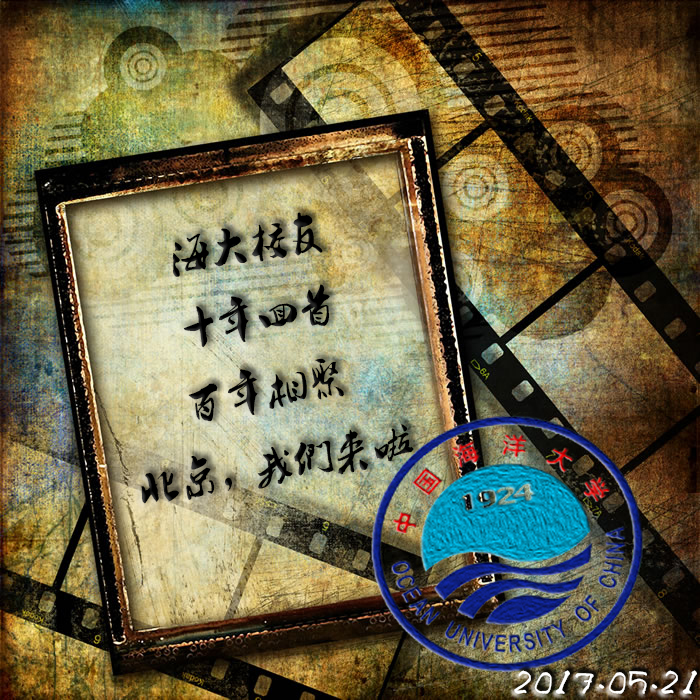
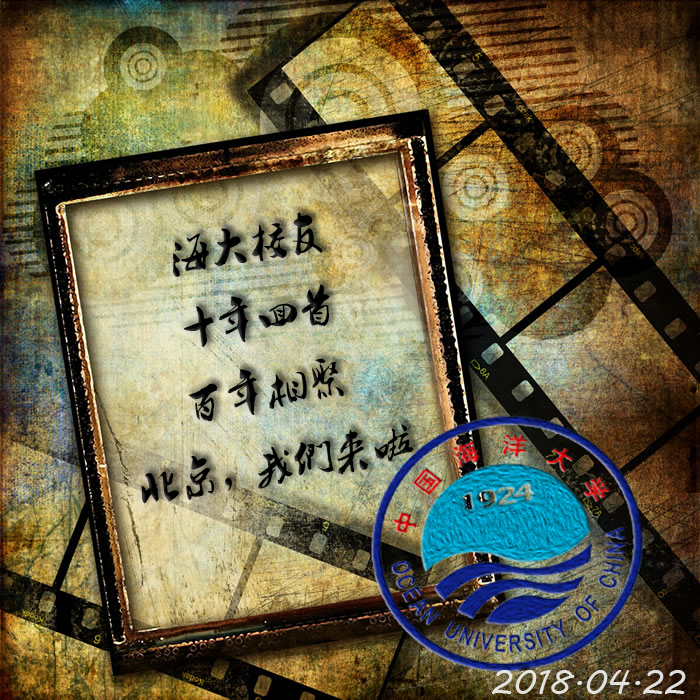
校友聚会

Changed region(s): [[0.69, 0.93, 1.0, 1.0]]

diff --git a/index.html b/index.html
@@ -17,117 +17,16 @@
     <link href="/css/fkpagetransitions.min.css" rel="stylesheet"/>
 </head>
 <body ontouchstart style="height: 100%">
-    <div class="weui-tab">
-        <div class="weui-tab__bd">
-            <div id="tab1" class="weui-tab__bd-item weui-tab__bd-item--active" style="background-color: #d3e9df">
-                <article style="text-align: center;color: #2f3238;margin: 10px">
-                    <h3>中国海洋大学校友会信息归档填报系统</h3><br>
-                    <text style="margin: 10px">
-                        通知：校友是学校的宝贵资源和巨大财富，是支持学校建设发展的重要力量。为了及时掌握分会及校友准确信息，加强母校与分会及校友之间的联系，为以后学校校友工作的顺利开展和深入推进奠定扎实基础，现对分会负责人及校友信息开展收集和更新工作。我们会将收集到的分会负责人及校友信息录入学校校友信息系统，并保证校友信息安全。
-                    </text><br>
-                    <a href="https://www.bagevent.com/widget/ticket/664077" class="weui-btn weui-btn_primary" style="margin-top: 40px">进入系统 >></a>
-                </article>
-                <div style="margin: 10px">
-                    <a href="http://720yun.com/t/6f528miOccw?from=timeline&isappinstalled=0" class="weui-btn weui-btn_primary">进入校园全景 >></a>
-                </div>
-            </div>
-            <div id="tab2" class="weui-tab__bd-item ">
-                <img src="/images/xyh.jpg" style="width:100%;height:90%;">
-                <div style="color: black"></div>
-            </div>
-            <div id="tab3" class="weui-tab__bd-item">
-                <ul class="swipPage">
-                    <li><img src="/images/0004.jpg" style="width:100%;height:95%;"></li>
-                    <li><img src="/images/0002.jpg" style="width:100%;height:95%;"></li>
-                    <li><img src="/images/haida/1 (3).jpg" style="width:100%;margin-top: 35%"></li>
-                    <li><img src="/images/haida/1 (4).jpg" style="width:100%;height:95%;"></li>
-                    <li><img src="/images/haida/1 (5).jpg" style="width:100%;height:95%;"></li>
-                    <li><img src="/images/haida/1 (6).jpg" style="width:100%;height:95%;"></li>
-                    <li><img src="/images/haida/1 (7).jpg" style="width:100%;margin-top: 35%"></li>
-                    <li><img src="/images/haida/1 (8).jpg" style="width:100%;height:95%;"></li>
-                    <li><img src="/images/haida/1 (9).jpg" style="width:100%;height:95%;"></li>
-                    <li><img src="/images/haida/1 (10).jpg" style="width:100%;height:95%;"></li>
-                    <li><img src="/images/haida/1 (11).jpg" style="width:100%;height:95%;"></li>
-                    <li><img src="/images/haida/1 (12).jpg" style="width:100%;height:95%;"></li>
-                    <li><img src="/images/haida/1 (13).jpg" style="width:100%;margin-top: 35%"></li>
-                    <li><img src="/images/haida/1 (14).jpg" style="width:100%;margin-top: 35%"></li>
-                    <li><img src="/images/haida/1 (16).jpg" style="width:100%;height:95%;"></li>
-                    <li><img src="/images/haida/1 (17).jpg" style="width:100%;margin-top: 35%"></li>
-                    <li><img src="/images/haida/1 (19).jpg" style="width:100%;margin-top: 35%"></li>
-                    <li><img src="/images/haida/1 (21).jpg" style="width:100%;margin-top: 35%"></li>
-                    <li><img src="/images/haida/1 (22).jpg" style="width:100%;margin-top: 35%"></li>
-                    <li><img src="/images/haida/1 (23).jpg" style="width:100%;height:95%;"></li>
-                    <li><img src="/images/haida/1 (24).jpg" style="width:100%;height:95%;"></li>
-                    <li><img src="/images/haida/1 (25).jpg" style="width:100%;height:95%;"></li>
-                    <li><img src="/images/haida/1 (26).jpg" style="width:100%;height:95%;"></li>
-                    <li><img src="/images/haida/1 (27).jpg" style="width:100%;margin-top: 35%"></li>
-                    <li><img src="/images/haida/1 (28).jpg" style="width:100%;margin-top: 35%"></li>
-                    <li><img src="/images/haida/1 (29).jpg" style="width:100%;margin-top: 35%"></li>
-                    <li><img src="/images/haida/1 (30).jpg" style="width:100%;margin-top: 35%"></li>
-                    <li><img src="/images/haida/1 (31).jpg" style="width:100%;margin-top: 35%"></li>
-                    <li><img src="/images/haida/1 (32).jpg" style="width:100%;margin-top: 35%"></li>
-                    <li><img src="/images/haida/1 (33).jpg" style="width:100%;margin-top: 35%"></li>
-                    <li><img src="/images/haida/1 (34).jpg" style="width:100%;margin-top: 35%"></li>
-                </ul>
-
-            </div>
-            <div id="tab4" class="weui-tab__bd-item" style="font-family: MicrosoftYaHei;background:#d3e9df">
-                <div class="weui-flex" style="text-align: center;margin: 10px">
-                    <div class="weui-flex__item">
-                        <img src="/images/0003.jpg" style="width:50%;height:80%;margin: 10px">
-                    </div>
-                </div>
-                <div class="weui-footer">
-                    <p class="weui-footer__links">
-                        <span  class="weui-footer__link">主办方</span>
-                        <span  class="weui-footer__link">中国海洋大学校友会</span>
-                        <div>联系人：于航</div>
-                        <div>办公电话：0532-66783901</div>
-                    </p>
-
-                    <p class="weui-footer__links" style="margin-top: 10px">
-                        <span  class="weui-footer__link">协办方</span>
-                        <span  class="weui-footer__link">海大北京校友分会</span>
-                        <div>联系人：王秦豫</div>
-                        <div>联系电话：15762254628</div>
-                        <div>联系微信：wqy8523</div>
-                    </p>
-
-                    <p style="margin-top: 10px">
-                        <span>技术支持：WeUI</span>
-                    </p>
-                    <p class="weui-footer__text" style="margin-top: 40px">Copyright © 2006-2020 ouc.edu</p>
-                </div>
-            </div>
-        </div>
-
-        <div class="weui-tabbar">
-            <a href="#tab1" class="weui-tabbar__item weui-bar__item--on">
-                <div class="weui-tabbar__icon">
-                    <img src="/ico/icon_nav_msg.png" alt="">
-                </div>
-                <p class="weui-tabbar__label">信息填报</p>
-            </a>
-            <a href="#tab2" class="weui-tabbar__item">
-                <div class="weui-tabbar__icon">
-                    <img src="/ico/icon_nav_article.png" alt="">
-                </div>
-                <p class="weui-tabbar__label">校友活动</p>
-            </a>
-            <a href="#tab3" class="weui-tabbar__item" onclick="toast()">
-                <div class="weui-tabbar__icon">
-                    <img src="/ico/icon_nav_button.png" alt="">
-                </div>
-                <p class="weui-tabbar__label">海大美景</p>
-            </a>
-            <a href="#tab4" class="weui-tabbar__item">
-                <div class="weui-tabbar__icon">
-                    <img src="/ico/icon_nav_cell.png" alt="">
-                </div>
-                <p class="weui-tabbar__label">联系方式</p>
-            </a>
-        </div>
+    <div>
+	    <article style="text-align: center;color: #2f3238;margin: 10px">
+	        <h3>2018中国海洋大学北京校友聚会</h3><br>
+	        <a href="https://www.bagevent.com/widget/ticket/664077" class="weui-btn weui-btn_primary" style="margin-top: 40px">进入系统 >></a>
+	    </article>
+	    <div style="margin: 10px">
+	    	<a href="http://720yun.com/t/6f528miOccw?from=timeline&isappinstalled=0" class="weui-btn weui-btn_primary">进入校园全景 >></a>
+	    </div>
     </div>
+        
     <script src="//cdn.bootcss.com/jquery/1.11.0/jquery.min.js"></script>
     <script src="//cdn.bootcss.com/jquery-weui/1.0.1/js/jquery-weui.min.js"></script>
     <script src="//cdn.bootcss.com/jquery-weui/1.0.1/js/swiper.min.js"></script>
